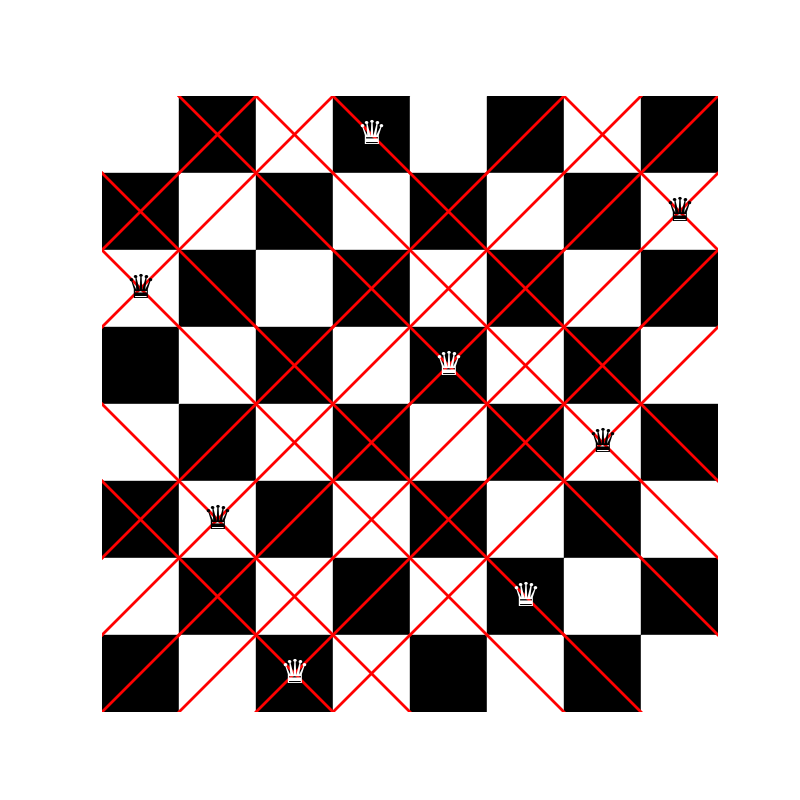
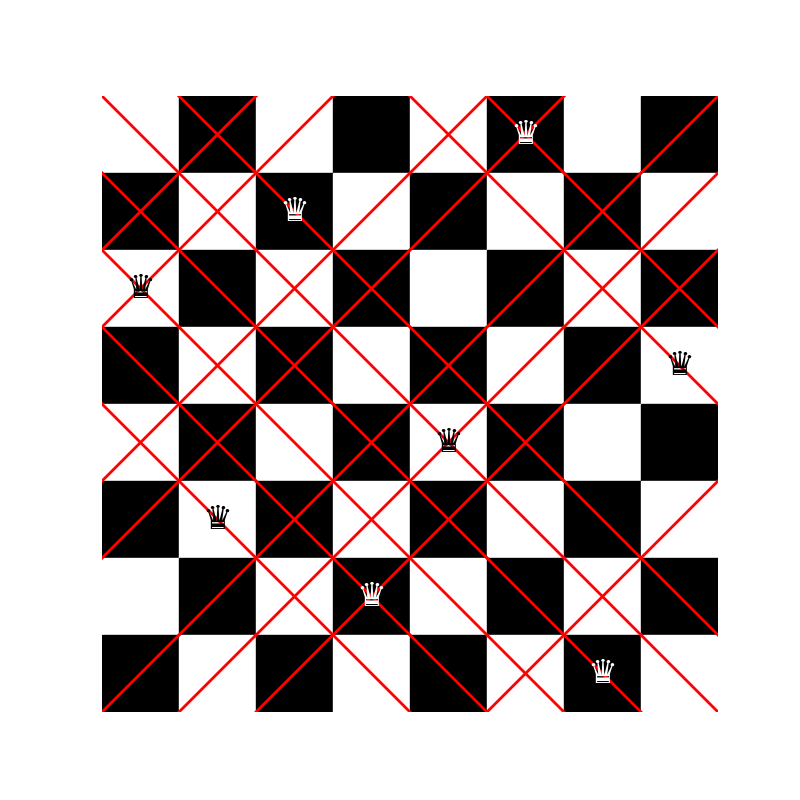
update : IPMX refactorizado

diff --git a/Queens/src/crossover_operators.py b/Queens/src/crossover_operators.py
@@ -25,9 +25,9 @@ class CrossoverOp(ABC):
     def debugged_cross(self,parent1, parent2):
         pass
 
-    @abstractmethod
-    def cross_population(self, population):
-        pass 
+    # @abstractmethod
+    # def cross_population(self, population):
+    #     pass 
 
     def cross_population(self, population, pop_size):
 
@@ -36,7 +36,6 @@ class CrossoverOp(ABC):
             #Realizamos tantas interaciones como la mitad de la poblacion
             #Ya que por cada iteracion obtenemos dos hijos 
             parents = np.random.choice(population,2)
-            #offspring_1, offspring_2 = self.cross(parents[0],parents[1])
             offspring_1, offspring_2 = self.cross(parents[0],parents[1])
             offspring.append(offspring_1)
             offspring.append(offspring_2)
@@ -176,5 +175,233 @@ class PMX(CrossoverOp):
         return map_rel_R,map_rel_L
 
        
+class IMPX(CrossoverOp):
+    
+    def cross(self,parent1, parent2):
         
+        n = len(parent1.chromosome)
+        #Paso 1
+        #Puntos de corte
+        cut_points= sorted(np.random.choice(np.arange(n),2,replace=False))
+        cp_1, cp_2 = cut_points[0],cut_points[1]
+    
+        #Copias de los padres 
+        primitive_offspring_1_chromosome = parent1.chromosome.copy()
+        primitive_offspring_2_chromosome = parent2.chromosome.copy()
+		
+        subs_1 = parent2.chromosome[cp_1:cp_2]
+        subs_2 = parent1.chromosome[cp_1:cp_2]
+
+        #Paso 2
+        #Intercambiamos información de los padres con la generacion primitiva usando los puntos de corte
+        primitive_offspring_1_chromosome[cp_1:cp_2] = parent2.chromosome[cp_1:cp_2]
+        primitive_offspring_2_chromosome[cp_1:cp_2] = parent1.chromosome[cp_1:cp_2]
+
+        #Paso 3 y 4: Generamos e inicializamos la exchange list  (O(m))
+        m = len(parent2.chromosome[cp_1:cp_2])
+        exchange_list = np.zeros((m,3), dtype=int)
+
+        for i in range(m):
+            exchange_list[i,0]= subs_1[i]
+            exchange_list[i,1]= subs_2[i]
+            exchange_list[i,2]= 1
+
+        #Paso 5,6 y 7 
+        #Generacion de la guide list
+        #Nuestra implementacion tiene que usar -1 en vez de 0 por que el 0 se ocupa en nuestra representacion 
+
+        guide_list = np.full(n,-1,dtype=int)
+        for i in range(m):
+            guide_list[exchange_list[i,0]]=exchange_list[i,1]
+
+        l1 = np.zeros(n,dtype=int)
+        l2 = np.zeros(n,dtype=int)
+
+        for i in range(m):
+            l1[exchange_list[i,0]] = 1
+            l2[exchange_list[i,1]] = 1
+        
+
+        l1_l2 = l1+l2
+
+        #Actualizar la exchange list haciendo los nodos intermedios 0 
+        for i in range(m):
+            index = exchange_list[i,0]
+            if l1_l2[index] == 2: 
+                exchange_list[i,2] = 0
+        
+        #Actualizar exchange list eliminando nodos intermedios y conectado los nodos con camino directo 
+        for i in range(m):
+            if exchange_list[i,2] == 1: 
+                #El reemplazo actual 
+                current_replacement = exchange_list[i,1]
+                #El reemplazo final
+                final_replacement = -1
+                while current_replacement != -1:#Al menos se cumple la primera vez 
+                    final_replacement = current_replacement
+                    current_replacement = guide_list[final_replacement]
+
+                exchange_list[i,1] = final_replacement
+
+        #Ahora actualizamos la guide list   
+        for i in range(m):
+            if(exchange_list[i,2]==1):
+                guide_list[exchange_list[i,0]] =  exchange_list[i,1]
+            else:
+                guide_list[exchange_list[i,0]] = -1
+
+        ###PASO  8
+        for i in range(cp_1):
+            #Primero queremos el gen en el padre (excluyendo los genes entre los puntos de corte)
+			#Para ese gen buscamos si su valor en la guide list es distinto de -1
+			#Si lo es, entonces lo sustituimos por el nuevo valor actualizado de la exchange list
+            value = guide_list[parent1.chromosome[i]]
+            if value != -1:
+                primitive_offspring_1_chromosome[i] = value
+
+        for i in range(cp_2,len(primitive_offspring_1_chromosome)):
+            value = guide_list[parent1.chromosome[i]]
+            if value != -1:
+                primitive_offspring_1_chromosome[i] = value
+
+        f = np.full(n,-1,dtype=int)
+        for i in range(n):
+            f[primitive_offspring_1_chromosome[i]]=parent1.chromosome[i]
+
+        for i in range(n):
+            primitive_offspring_2_chromosome[i]=f[parent2.chromosome[i]]
+
+        return primitive_offspring_1_chromosome,primitive_offspring_2_chromosome    
+
+    def debugged_cross(self,parent1, parent2):
+        
+        n = len(parent1.chromosome)
+        #Paso 1
+        #Puntos de corte
+        cut_points= sorted(np.random.choice(np.arange(n),2,replace=False))
+        cp_1, cp_2 = cut_points[0],cut_points[1]
+        print("Cutting points :"+str(cp_1)+" ,"+str(cp_2))
+
+        #Copias de los padres 
+        primitive_offspring_1_chromosome = parent1.chromosome.copy()
+        primitive_offspring_2_chromosome = parent2.chromosome.copy()
+
+        print("Parent 1 :"+str(primitive_offspring_1_chromosome))
+        print("Parent 2 :"+str(primitive_offspring_1_chromosome))
+		
+        subs_1 = parent2.chromosome[cp_1:cp_2]
+        subs_2 = parent1.chromosome[cp_1:cp_2]
+
+        print("Substring 1:"+str(subs_1))
+        print("Substring 1:"+str(subs_2))
+        #Generamos relacion de mapeo
+        
+        #Paso 2
+        #Intercambiamos información de los padres con la generacion primitiva usando los puntos de corte
+        primitive_offspring_1_chromosome[cp_1:cp_2] = parent2.chromosome[cp_1:cp_2]
+        primitive_offspring_2_chromosome[cp_1:cp_2] = parent1.chromosome[cp_1:cp_2]
+
+        print("Primitive Offspring 1 :"+ str(primitive_offspring_1_chromosome))
+        print("Primitive Offspring 2 :"+ str(primitive_offspring_2_chromosome))
+
+        #Paso 3 y 4: Generamos e inicializamos la exchange list  (O(m))
+        m = len(parent2.chromosome[cp_1:cp_2])
+        exchange_list = np.zeros((m,3), dtype=int)
+
+        for i in range(m):
+            exchange_list[i,0]= subs_1[i]
+            exchange_list[i,1]= subs_2[i]
+            exchange_list[i,2]= 1
+
+        print("Initial Exchange List :")
+        print(exchange_list)
+
+        #Paso 5,6 y 7 
+        #Generacion de la guide list
+        #Nuestra implementacion tiene que usar -1 en vez de 0 por que el 0 se ocupa en nuestra representacion 
+
+        guide_list = np.full(n,-1,dtype=int)
+        for i in range(m):
+            guide_list[exchange_list[i,0]]=exchange_list[i,1]
+
+        print("Initial Guide List")
+        print(guide_list)
+
+        l1 = np.zeros(n,dtype=int)
+        l2 = np.zeros(n,dtype=int)
+
+        for i in range(m):
+            l1[exchange_list[i,0]] = 1
+            l2[exchange_list[i,1]] = 1
+        
+        print("l1 :"+str(l1))
+        print("l2 :"+str(l2))
+
+        l1_l2 = l1+l2
+        print("L1 + L2 :"+str(l1_l2))
+
+        #Actualizar la exchange list haciendo los nodos intermedios 0 
+        for i in range(m):
+            index = exchange_list[i,0]
+            if l1_l2[index] == 2: 
+                exchange_list[i,2] = 0
+        
+        print("Updated Exchange List (Removing mid nodes) :")
+        print(exchange_list)
+
+        #Actualizar exchange list eliminando nodos intermedios y conectado los nodos con camino directo 
+        for i in range(m):
+            if exchange_list[i,2] == 1: 
+                #El reemplazo actual 
+                print("QUE PASHO FOR")
+                current_replacement = exchange_list[i,1]
+                #El reemplazo final
+                final_replacement = -1
+                while current_replacement != -1:#Al menos se cumple la primera vez 
+                    final_replacement = current_replacement
+                    current_replacement = guide_list[final_replacement]
+
+                exchange_list[i,1] = final_replacement
+
+        print("Updated Exchange List (New Paths)")
+        print(exchange_list)
+
+        #Ahora actualizamos la guide list   
+        for i in range(m):
+            if(exchange_list[i,2]==1):
+                guide_list[exchange_list[i,0]] =  exchange_list[i,1]
+            else:
+                guide_list[exchange_list[i,0]] = -1
+
+        print("Updated Guide list")
+        print(guide_list)
+
+        ###PASO  8
+        for i in range(cp_1):
+            #Primero queremos el gen en el padre (excluyendo los genes entre los puntos de corte)
+			#Para ese gen buscamos si su valor en la guide list es distinto de -1
+			#Si lo es, entonces lo sustituimos por el nuevo valor actualizado de la exchange list
+            value = guide_list[parent1.chromosome[i]]
+            if value != -1:
+                primitive_offspring_1_chromosome[i] = value
+
+        for i in range(cp_2,len(primitive_offspring_1_chromosome)):
+            value = guide_list[parent1.chromosome[i]]
+            if value != -1:
+                primitive_offspring_1_chromosome[i] = value
+
+        print("Offspring 1 : Legalized :")
+        print(str(primitive_offspring_1_chromosome))
+
+        f = np.full(n,-1,dtype=int)
+        for i in range(n):
+            f[primitive_offspring_1_chromosome[i]]=parent1.chromosome[i]
+
+        for i in range(n):
+            primitive_offspring_2_chromosome[i]=f[parent2.chromosome[i]]
+
+        print("Offspring 2 : Legalized :")
+        print(str(primitive_offspring_2_chromosome))
+
+        return primitive_offspring_1_chromosome,primitive_offspring_2_chromosome
 

diff --git a/Queens/src/ga.py b/Queens/src/ga.py
@@ -52,7 +52,8 @@ class GeneticAlg:
 		self.selection_operator = selop.Tournament(3)
 		#self.selection_operator = selop.Roulette()
 		#self.crossover_operator = crossop.Basic()
-		self.crossover_operator = crossop.PMX()
+		#self.crossover_operator = crossop.PMX()
+		self.crossover_operator = crossop.IMPX()
 		#self.optimal = (n_q*(n_q-1))/2
 		self.optimal=0 
 		#self.optimal = (n_q*(n_q-1))/2
@@ -695,6 +696,8 @@ class GeneticAlg:
 			#pop_chromosomes = self.crossover_operator.cross_population(selected, self.pop_size)
 			pop_chromosomes = self.crossover_operator.cross_population(selected, self.pop_size)
 			tournament_offspring = self.get_queens_population(pop_chromosomes)
+			
+			#tournament_offspring = self.crossover_pop_ipmx(selected)
 			#crossover_pop_pmx
 			#Elitism Selection  ---> El elitismo debe ser entre padres e hijos 
 			#elite = self.selection_elitism() 
